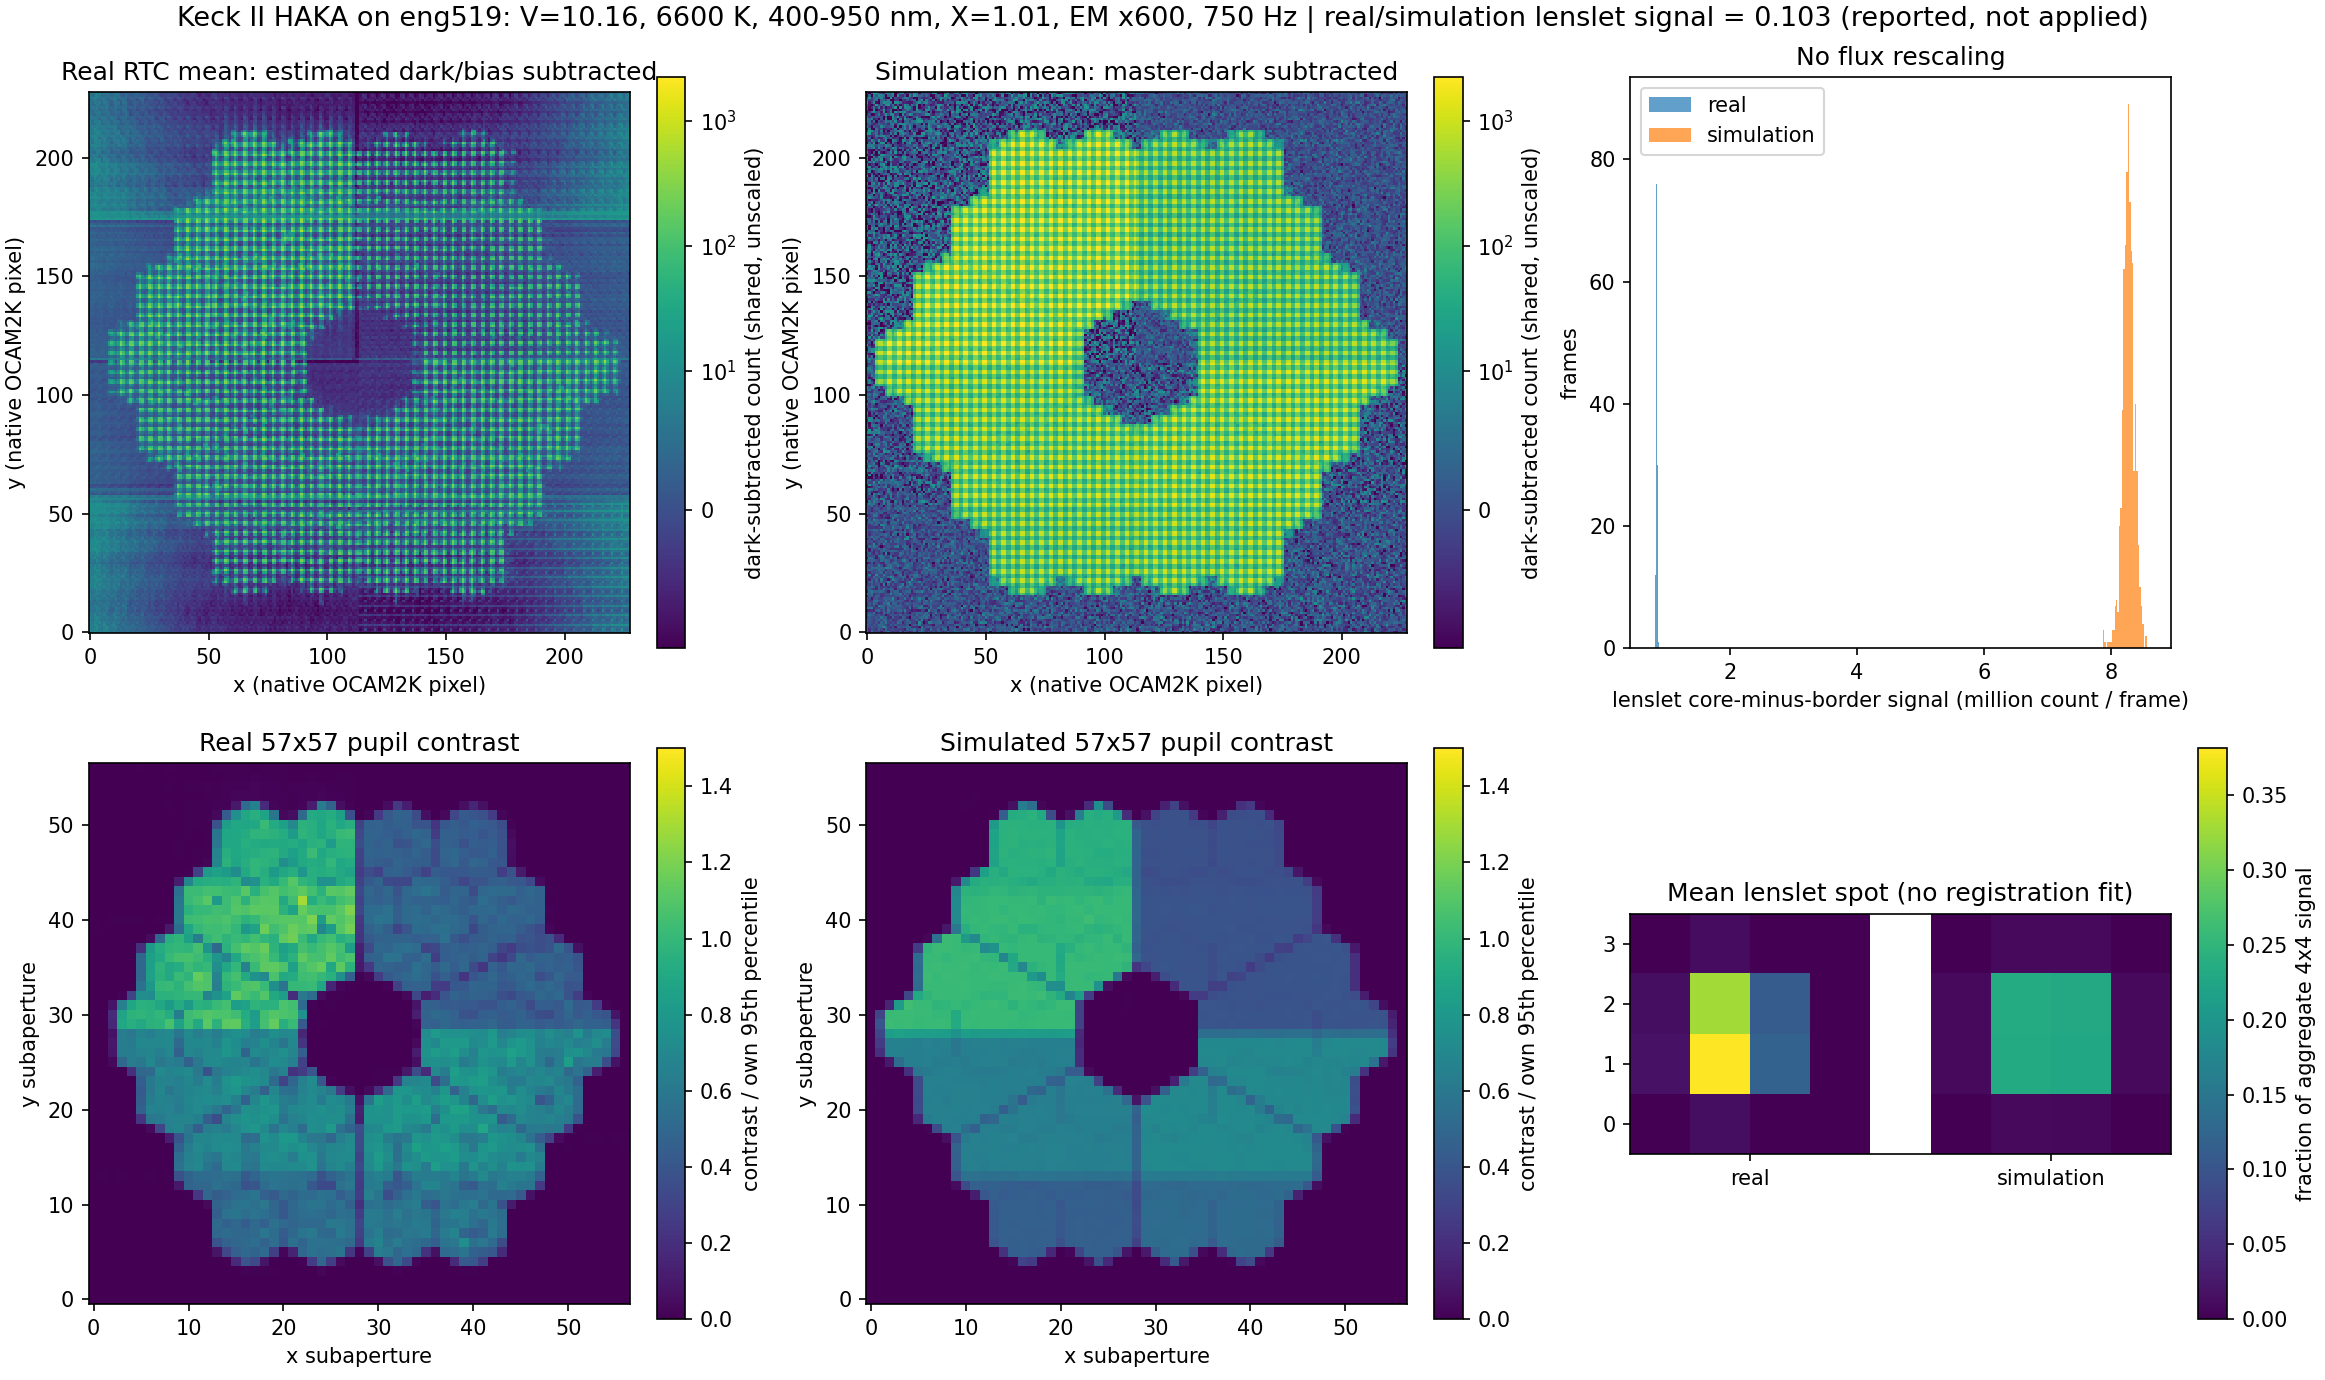
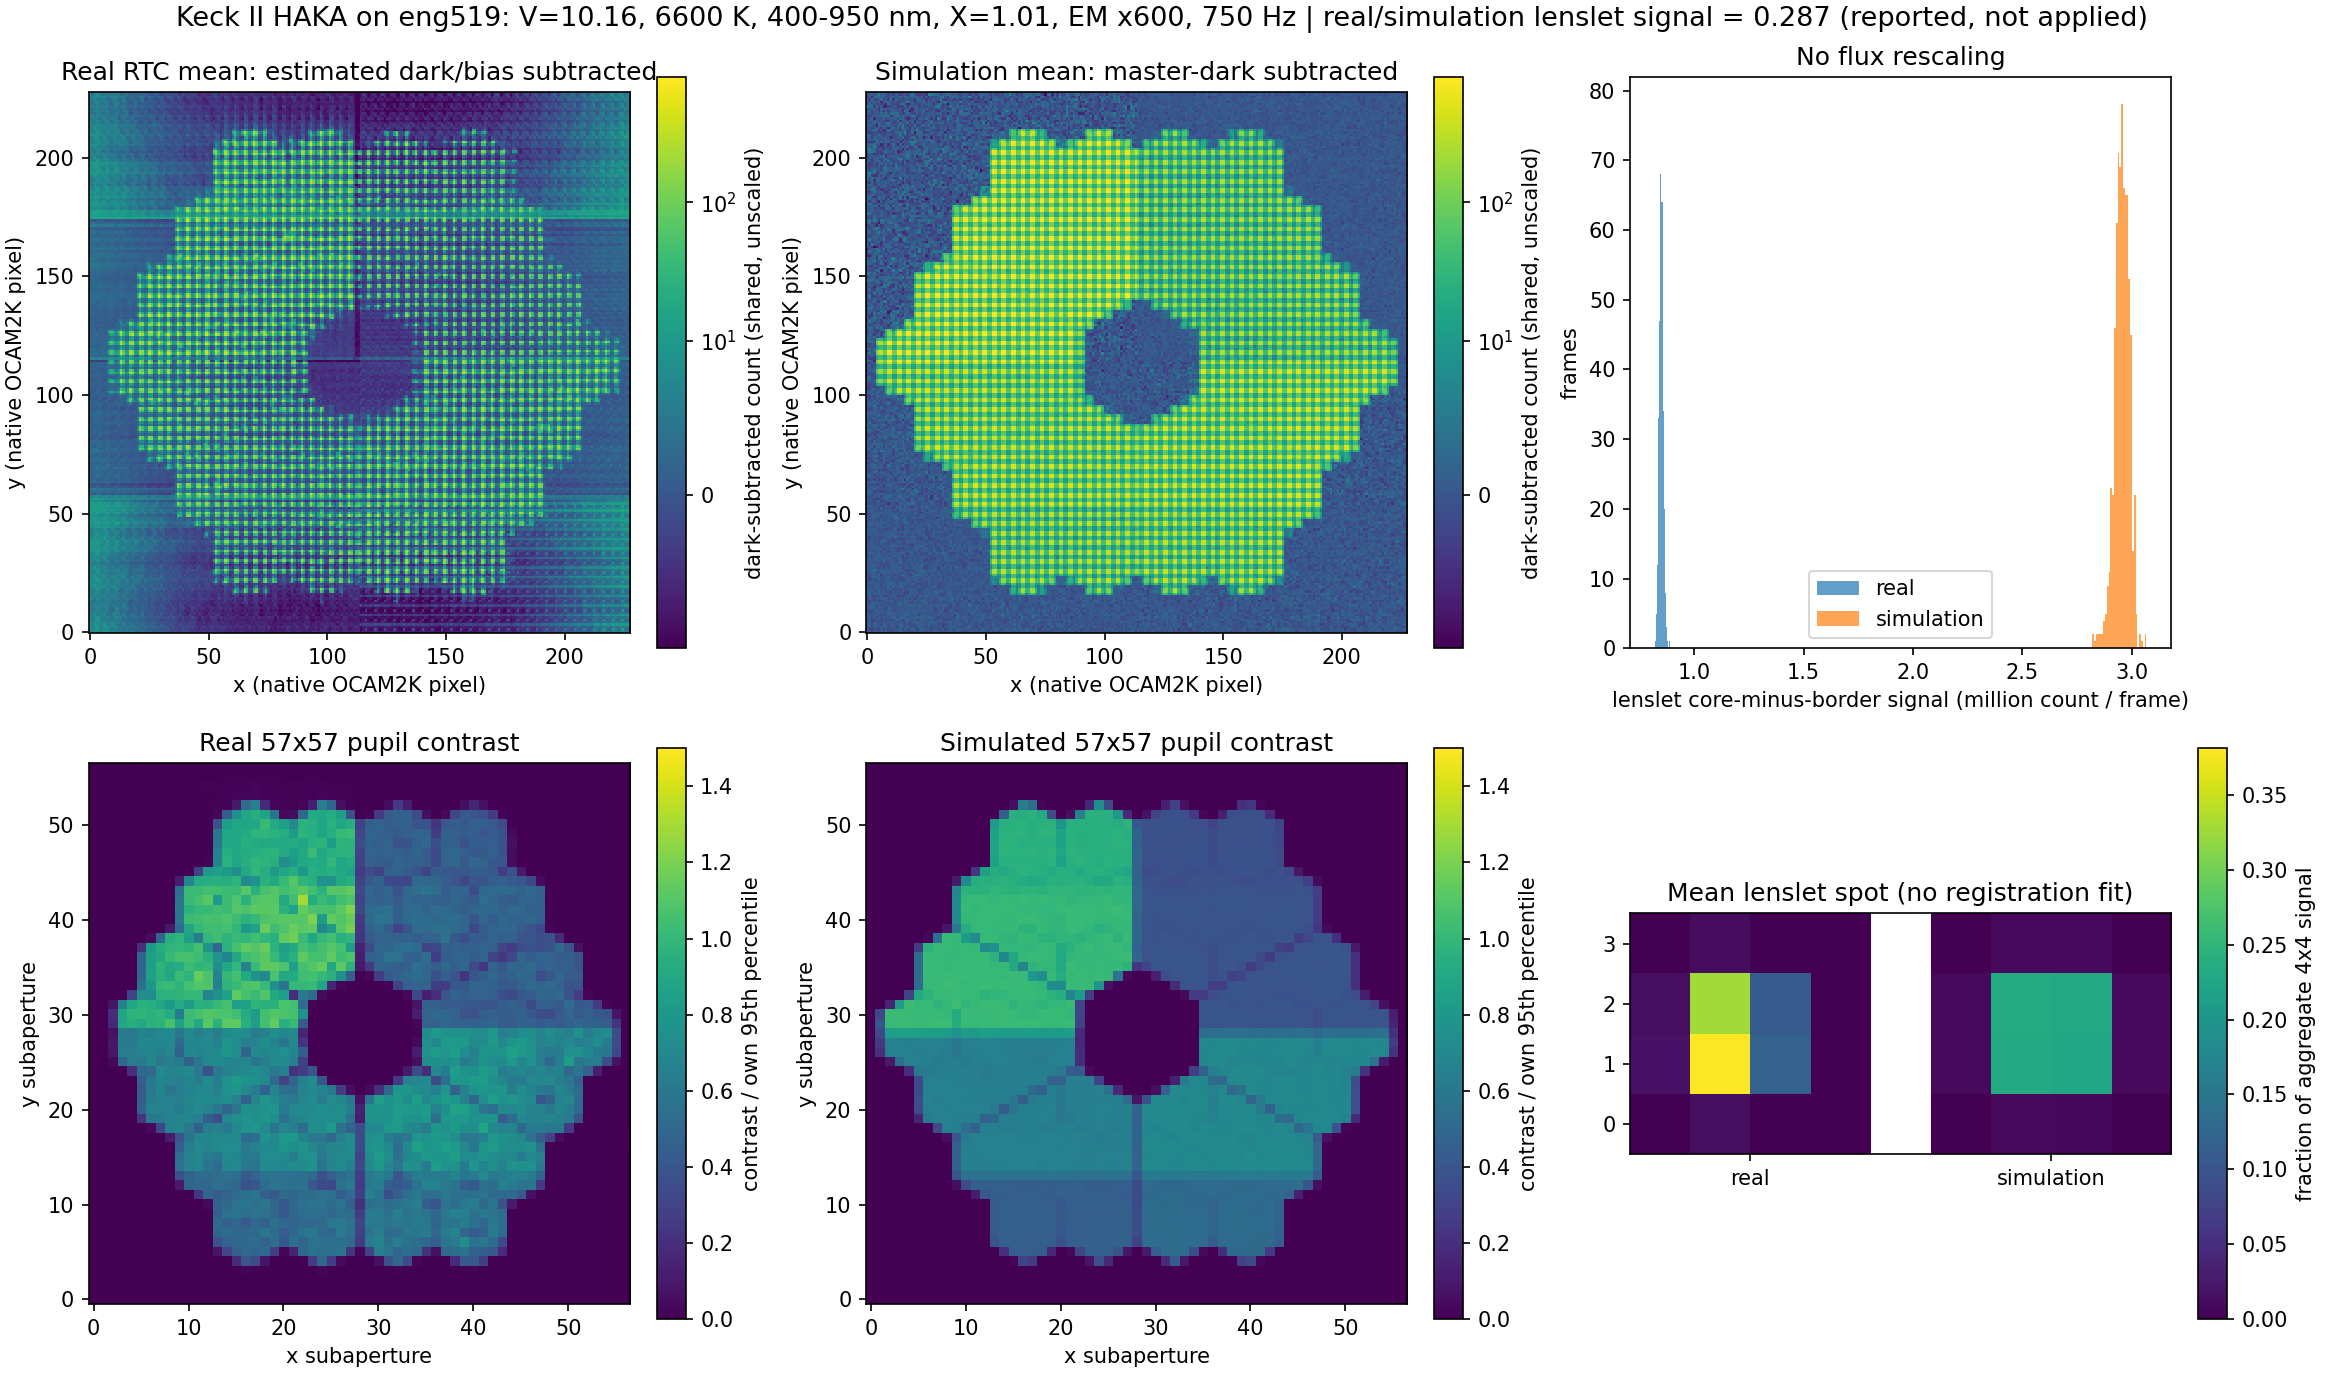
Reran with better ocam2k model

diff --git a/examples/keck_haka/README.md b/examples/keck_haka/README.md
@@ -72,9 +72,11 @@ specifications](https://andor.oxinst.com/products/ocam-emccd-camera-series/ocam)
 The preset keeps the detector's two saturation domains separate: Andor's
 published 270,000-electron image-area well is applied before EM multiplication,
 and the Keck-observed 10,000 dark-subtracted count ceiling is represented as a
-100,000-electron output-register limit at 10 electrons/count. This avoids the
-unphysical 25-count post-EM clip that results from treating a single small
-input-referred number as the output well.
+280,000-electron output-register limit at the approximately 28 output
+electrons/count system conversion. At EM gain 600, one input electron therefore
+produces about 21.43 counts. This avoids the unphysical 25-count post-EM clip
+that results from treating a single small input-referred number as the output
+well.
 
 The source is a 6600 K Planck photon spectrum normalized to the catalog Johnson
 V magnitude and integrated from 400 to 950 nm with eight-point Gauss-Legendre
@@ -170,10 +172,13 @@ photons/s after atmospheric extinction; the three mirror reflections reduce
 this to 184.11 million photons/s, and the finite SH windows capture 181.77
 million photons/s. The real and simulated central-2x2 spot fractions are 94.1%
 and 92.4%, respectively. The pedestal-insensitive lenslet signal is 0.848
-million count/frame in the real cube and 8.272 million count/frame in the
-simulation: a real/simulation ratio of 0.1026, reported but not applied. Because
+million count/frame in the real cube and 2.956 million count/frame in the
+simulation: a real/simulation ratio of 0.2870, reported but not applied. Because
 atmospheric extinction and telescope-mirror losses are already included, this
-is an approximate 10.26% remaining downstream HAKA-throughput diagnostic,
+is an approximate 28.70% remaining downstream HAKA-throughput diagnostic. With
+the three modeled mirror reflections included, the inferred post-atmosphere
+telescope-plus-HAKA throughput is 19.56%; including atmospheric extinction gives
+17.71% from above the atmosphere to the detector entrance. These estimates are
 still convolved with the estimated real dark, absolute detector calibration,
 and the unknown instrumental band shape.
 

diff --git a/CHANGELOG.md b/CHANGELOG.md
@@ -31,7 +31,10 @@ All notable changes to `makewfs` are documented here.
   400--950 nm band, applies measured Mauna Kea extinction at the observed
   airmass, applies 0.88 reflectivity to the aluminum primary, secondary, and
   tertiary, uses the sampled clear-pupil collecting area, and passes the
-  resolved spectral cube through OCAM2K's wavelength-dependent QE.
+  resolved spectral cube through OCAM2K's wavelength-dependent QE. The reference
+  renders now use the Keck-characterized approximately 28 output e-/ADU OCAM2K
+  conversion; the unscaled eng519 comparison estimates 28.70% downstream HAKA
+  throughput after the already-modeled atmosphere and telescope mirrors.
 - Added public end-to-end GPU execution through `numerics.device = "gpu"`.
   CuPy OPD, SH/PWFS optics, wavelength-resolved photon maps, the `getframes`
   detector chain, truth, and ADU remain device-resident. The runtime reports an
